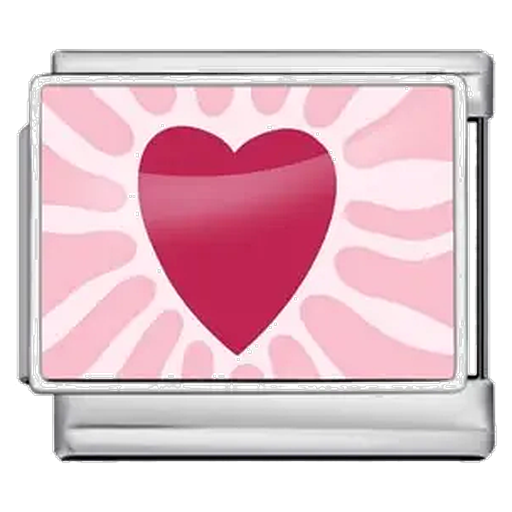
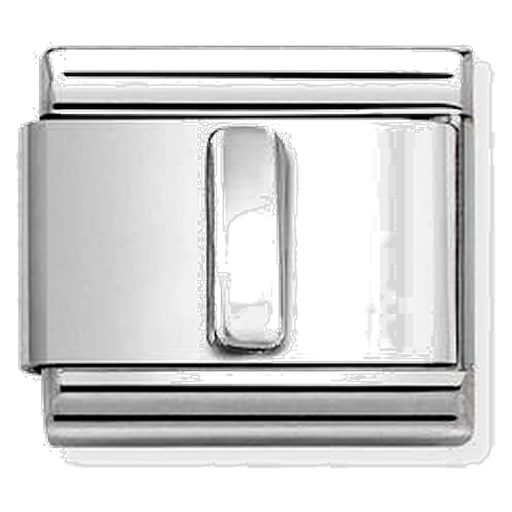
Fix letter G and I — use silver Nomination photos (not wrong zip images)

diff --git a/assets/js/charm-images.js b/assets/js/charm-images.js
@@ -1,5 +1,5 @@
 /** All bracelet.zip charms — transparent HD */
-const IMAGE_VERSION = 'v7-full-zip';
+const IMAGE_VERSION = 'v7-gi-fix';
 
 const CHARM_IMAGE_MAP = {
   "anchor": "assets/charms-hd/anchor.png",

diff --git a/scripts/build-full-zip-catalog.py b/scripts/build-full-zip-catalog.py
@@ -23,7 +23,7 @@ spec.loader.exec_module(proc)
 LETTER_STEMS = {
     "letter-a": "54ebf031b94a", "letter-b": "88c2ef73fb2e", "letter-c": "175346fb2a8e",
     "letter-d": "e74d45d0b681", "letter-e": "bbe80f9e86ef", "letter-f": "7f4312061414",
-    "letter-g": "269c37e0285e", "letter-h": "b2c68fa5d6a7", "letter-i": "3c7711486187",
+    "letter-h": "b2c68fa5d6a7",
     "letter-j": "6cf276e45154", "letter-k": "6e135abe45ef", "letter-l": "d6edc9765a68",
     "letter-m": "b77a8f3f81ca", "letter-n": "69dd56fac88e", "letter-o": "180e69a90746",
     "letter-p": "13a6cec624e5", "letter-q": "5bb959af1c8d", "letter-r": "cc4920d49832",
@@ -56,6 +56,9 @@ CATALOG_STEMS = {
     "star": "639b7db428bb",
 }
 
+# G and I not in zip as letter charms — use Nomination silver photos
+FROM_OLD_JPG = ["letter-g", "letter-i"]
+
 # Extra zip charms — stem -> metadata
 EXTRA_STEMS: dict[str, dict] = {
     "0cfcbed019c2": {"id": "leopard-star", "name": "Leopard Star", "category": "symbols", "hint": "Red enamel with leopard-print star."},
@@ -68,6 +71,8 @@ EXTRA_STEMS: dict[str, dict] = {
     "cc88b4ef5ec5": {"id": "bandaid-heart", "name": "Bandaid Heart", "category": "love", "hint": "Red enamel with bandaid and heart."},
     "1bb9b5ed0f22": {"id": "bone-link", "name": "Bone Link", "category": "symbols", "hint": "Silver link with bone silhouette."},
     "06f00d131b33": {"id": "paw-print", "name": "Paw Print", "category": "animals", "hint": "Animal paw print charm."},
+    "269c37e0285e": {"id": "pink-red-grid", "name": "Pink Red Grid", "category": "symbols", "hint": "Red and pink checker grid enamel."},
+    "3c7711486187": {"id": "sunburst-heart", "name": "Sunburst Heart", "category": "love", "hint": "Pink sunburst with glossy heart."},
     "292344e22778": {"id": "heart-web-red", "name": "Red Heart Web", "category": "love", "hint": "Red heart spiderweb design."},
     "0cf97b08843d": {"id": "letter-c-gold", "name": "Gold Letter C", "category": "letters", "letter": "C", "hint": "Gold-accent letter C variant."},
     "63a554ffe48d": {"id": "rose-heart", "name": "Rose Gold Heart", "category": "love", "hint": "Rose gold heart charm link."},
@@ -133,6 +138,19 @@ def find_best_source(stem: str) -> Path | None:
     return max(matches, key=lambda p: max(Image.open(p).size))
 
 
+OLD = ROOT / "assets" / "charms"
+
+
+def process_old_jpg(charm_id: str) -> Image.Image:
+    path = OLD / f"{charm_id}.jpg"
+    im = Image.open(path).convert("RGBA")
+    white = Image.new("RGBA", im.size, (255, 255, 255, 255))
+    white.paste(im, (0, 0))
+    im = proc.remove_white_bg(white)
+    im = proc.enhance(im)
+    return proc.to_square_canvas(im, 512)
+
+
 def process_to_png(path: Path, out: Path) -> None:
     im = Image.open(path)
     im = proc.remove_white_bg(im)
@@ -175,6 +193,13 @@ def main() -> None:
         image_map[charm_id] = f"assets/charms-hd/{charm_id}.png"
         used_stems.add(stem)
         print(f"{charm_id} <- {stem}")
+
+    for charm_id in FROM_OLD_JPG:
+        im = process_old_jpg(charm_id)
+        out = OUT / f"{charm_id}.png"
+        im.save(out, "PNG", optimize=True)
+        image_map[charm_id] = f"assets/charms-hd/{charm_id}.png"
+        print(f"{charm_id} <- nomination jpg")
 
     # Named extras
     auto_idx = 1